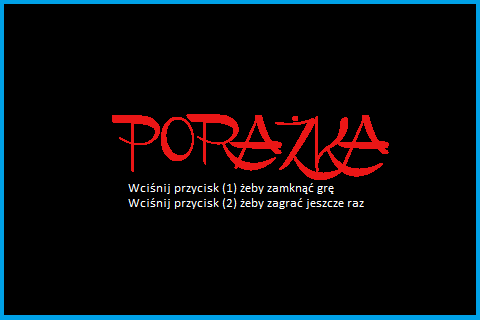
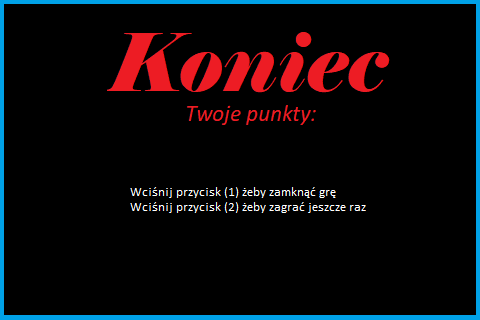
Poprawa menu i grafiki

Changed region(s): [[0.2188, 0.0938, 0.8125, 0.6875]]

diff --git a/Szymon/Hunter/Game.py b/Szymon/Hunter/Game.py
@@ -31,7 +31,7 @@ class Game():
             pygame.quit()
             sys.exit()
         if pygame.key.get_pressed()[pygame.K_r]:
-            player.counter_a = 0
+            player.counter_a = 1
             player.zycia_ = 3
             player.punkty_ = 0
             player.x_ = 240
@@ -49,6 +49,7 @@ class Game():
         dy = 0
         dt = 0
         font_style = pygame.font.SysFont("dejavuserif", 20)
+        font_style2 = pygame.font.SysFont("dejavuserif", 20)
         size_szerokosc = 480
         size_wysokosc=320
         size=[size_szerokosc,size_wysokosc]
@@ -62,9 +63,6 @@ class Game():
         tlo_menu = pygame.sprite.Sprite()
         tlo_menu.image = pygame.image.load("menu.png").convert()
         tlo_menu.rect = tlo_menu.image.get_rect()
-        tlo_wygrana = pygame.sprite.Sprite()
-        tlo_wygrana.image = pygame.image.load("tlo_wygrana.png").convert()
-        tlo_wygrana.rect = tlo_wygrana.image.get_rect()
         tlo_porazka = pygame.sprite.Sprite()
         tlo_porazka.image = pygame.image.load("tlo_porazka.png").convert()
         tlo_porazka.rect = tlo_porazka.image.get_rect()
@@ -80,7 +78,7 @@ class Game():
                 if player.counter_a==0:
                     screen.blit(tlo_menu.image, tlo_menu.rect)
                     pygame.display.flip()
-                if pygame.key.get_pressed()[pygame.K_a] or player.counter_a==1:
+                if pygame.key.get_pressed()[pygame.K_r] or player.counter_a==1:
                     player.counter_a=1
                     if player.zycia_ > 0:
                         screen.blit(tlo_a.image, tlo_a.rect)
@@ -101,36 +99,8 @@ class Game():
                             player.punkty_ += 1
                     if player.zycia_ <= 0:
                         screen.blit(tlo_porazka.image, tlo_porazka.rect)
+                        text_zycia = font_style2.render(str(player.punkty_), True, (255, 255, 0))
+                        screen.blit(text_zycia, [230, 135])
                         self.sterowanie_oknem(player,shield)
                     pygame.display.update()
-
-                if pygame.key.get_pressed()[pygame.K_b] or player.counter_a==2:
-                    player.counter_a=2
-                    if player.zycia_ > 0:
-                        screen.blit(tlo_a.image, tlo_a.rect)
-                        player.sterowanie(dx, dy)
-                        shield.draw()
-                        player.draw()
-                        self.zmiany_v(player, shield)
-                        shield.move(player)
-                        player.napisy(screen, font_style)
-                        if shield.kolizja(player) == True:
-                            shield.x_ = -20
-                            shield.y_ = randrange(70, 270, 1)
-                            shield.dy_ = 0
-                            player.punkty_ += 1
-                        if player.punkty_>=6 and player.zycia_<2:
-                            heart.kolizja(player)
-                            heart.draw()
-                            heart.move(player)
-                        if player.punkty_ >= 12:
-                             screen.blit(tlo_wygrana.image, tlo_wygrana.rect)
-                             shield.dx_ = 0
-                             shield.dy_ = 0
-                             self.sterowanie_oknem(player,shield)
-                        if player.zycia_ <= 0:
-                             screen.blit(tlo_porazka.image, tlo_porazka.rect)
-                             self.sterowanie_oknem(player,shield)
-                    pygame.display.update()
-                    print([shield.dx_,player.punkty_])
         pygame.quit()

diff --git a/Szymon/Maze/Game.py b/Szymon/Maze/Game.py
@@ -51,7 +51,7 @@ class Game():
                 if player.counter_a==0:
                     screen.blit(tlo_menu.image, tlo_menu.rect)
                     pygame.display.flip()
-                if pygame.key.get_pressed()[pygame.K_a] or player.counter_a==1:
+                if pygame.key.get_pressed()[pygame.K_r] or player.counter_a==1:
                     player.counter_a=1
                     if player.zycia > 0:
 
